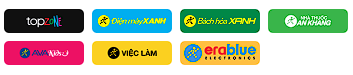
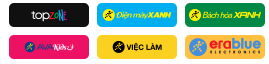
commit

diff --git a/index.html b/index.html
@@ -88,9 +88,9 @@
         </div>
 
         <div class="footer-bottom">
-            <p>© 2018. Công ty cổ phần Thế Giới Di Động. GPDKKD: 0303217354 do sở KH & ĐT TP.HCM cấp ngày 02/01/2007.
+            <p>© 2024. Công ty cổ phần Thế Giới Di Động. GPDKKD: 0303217354 do sở KH & ĐT TP.HCM cấp ngày 02/01/2007.
             </p>
-            <p>Địa chỉ: 128 Trần Quang Khải, P.Tân Định, Q.1, TP.Hồ Chí Minh. Điện thoại: 028 38125960. Email:
+            <p>Địa chỉ: Hải Phòng. Điện thoại: 028 38125960. Email:
                 cskh@thegioididong.com</p>
 
         </div>

diff --git a/index.css b/index.css
@@ -137,18 +137,20 @@ header .navbar {
 .promotions-list {
     display: flex;
     flex-wrap: wrap;
-    gap: 40px;
+    justify-content: space-between;
+    /* gap: 40px; */
 }
 
 .promotions-list .promotion-item {
     border: 1px solid #ccc;
     padding: 30px;
     border-radius: 4px;
+    margin-top: 15px;
     background-color: #fff;
     text-align: center;
-    flex: 1 0 18%;
+    flex: 1 0 24%;
     /* 18% width for each item with some flexibility */
-    max-width: 18%;
+    max-width: 24%;
     /* Max width to prevent items from stretching too much */
 }
 
